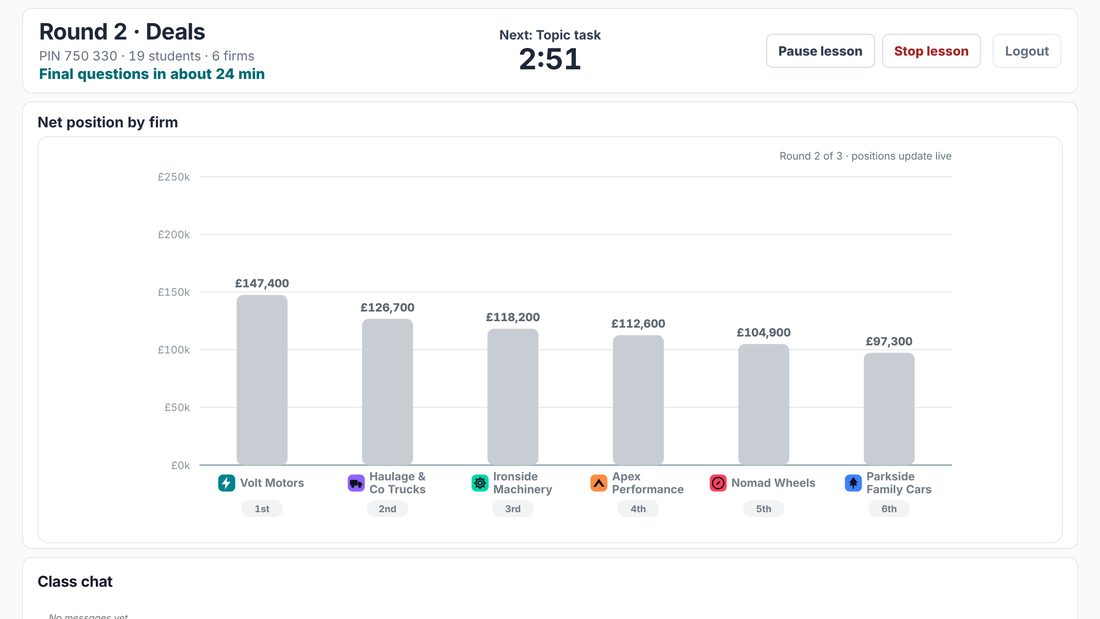
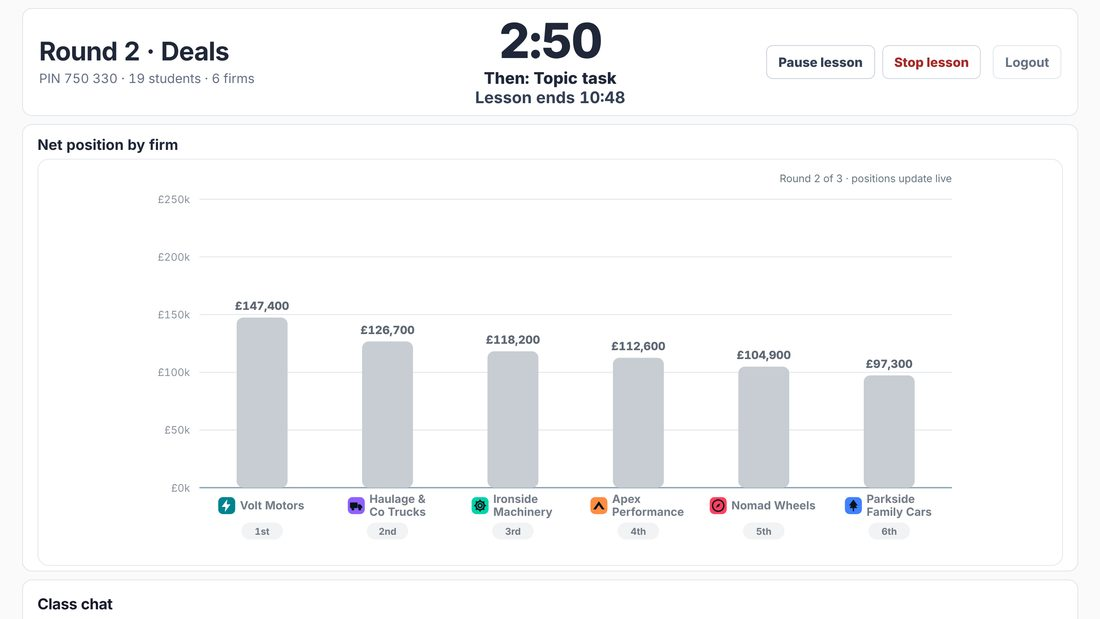
UK pages: teacher-screen pictures re-taken from game main 4814efdd (one clock header)
The teacher's header in the step-by-step lesson is now one big countdown with
"Then: <next step>" and "Lesson ends HH:MM" under it; the old "Next: ... 2:51"
and "Final questions in about N min" lines are gone. Re-taken through the
real-app harness, same scenes and sizes as 12.11.:
- howto/4-teacher: Round 2 Deals, the new header (1100x619, JPEG q82)
- howto/5-winner: the podium under the "Lesson ended" header as it is now
  (1100x619, JPEG q82)
- uk/uk-g-topic-dashboard: Live tab, Task 4, the new header; shot at 1536x864
  so the Task 3 line under the taller header is whole (1600x900, JPEG q84)
Image tags bumped to v=20261113. og-simulation (pupil's receipt) re-taken and
unchanged apart from the running clock, so it stays. Film posters stay matched
to their films.

Claude-Session: https://claude.ai/code/session_01Np2n7mwxyzcaQWByNZ1ReD

diff --git a/index.html b/index.html
@@ -684,7 +684,7 @@
       <p style="color:#40506e;font-size:16.5px">A revision lesson at the end of each topic, or a business activity any time (No topic).</p>
       <p style="color:#40506e;font-size:16.5px;margin-top:10px">The lesson runs step by step. The whole class works on the same step at the same time, and your screen shows how many firms are done.</p>
     </div>
-    <div class="hs-wrap"><div class="hs"><div class="hs-list" role="tablist" aria-label="How a lesson runs"><button class="hs-item" type="button" role="tab" aria-selected="true" data-i="0"><span class="hs-n">01</span><span><span class="hs-t">Students join with a PIN</span><span class="hs-d">You pick the class and the lesson length. The whole class joins with one PIN.</span></span></button><button class="hs-item" type="button" role="tab" aria-selected="false" data-i="1"><span class="hs-n">02</span><span><span class="hs-t">Each firm votes where to open</span><span class="hs-d">Everyone votes. Most votes wins.</span></span></button><button class="hs-item" type="button" role="tab" aria-selected="false" data-i="2"><span class="hs-n">03</span><span><span class="hs-t">Everyone deals</span><span class="hs-d">Students buy, price and negotiate face to face.</span></span></button><button class="hs-item" type="button" role="tab" aria-selected="false" data-i="3"><span class="hs-n">04</span><span><span class="hs-t">Every round, the same order</span><span class="hs-d">Firm decisions, deals with classmates, topic tasks, then a B2B deal between firms.</span></span></button><button class="hs-item" type="button" role="tab" aria-selected="false" data-i="4"><span class="hs-n">05</span><span><span class="hs-t">You see every firm live</span><span class="hs-d">Pause and Stop are one click away.</span></span></button><button class="hs-item" type="button" role="tab" aria-selected="false" data-i="5"><span class="hs-n">06</span><span><span class="hs-t">Questions, then the winner</span><span class="hs-d">Six final questions, then the podium.</span></span></button><button class="hs-item" type="button" role="tab" aria-selected="false" data-i="6"><span class="hs-n">07</span><span><span class="hs-t">Every student gets a report</span><span class="hs-d">You download the class pack.</span></span></button></div><div class="hs-view"><div class="hs-frame"><i class="hs-corner tl"></i><i class="hs-corner tr"></i><i class="hs-corner bl"></i><i class="hs-corner br"></i><div class="hs-stack"><img class="hs-img on" src="/assets/tbs-web/howto/1-join.jpg?v=20261112c" alt="Students join with a PIN" width="1100" height="619"><img class="hs-img" src="/assets/tbs-web/howto/2-location.jpg?v=20261110" alt="Each firm votes where to open" loading="lazy" width="1100" height="619"><img class="hs-img" src="/assets/tbs-web/howto/3-deal.jpg?v=20261112" alt="Everyone deals" loading="lazy" width="1100" height="619"><img class="hs-img" src="/assets/tbs-web/howto/3b-margin.jpg?v=20261112d" alt="Every round, the same order" loading="lazy" width="1100" height="619"><img class="hs-img" src="/assets/tbs-web/howto/4-teacher.jpg?v=20261112" alt="You see every firm live" loading="lazy" width="1100" height="619"><img class="hs-img" src="/assets/tbs-web/howto/5-winner.jpg?v=20261112" alt="Questions, then the winner" loading="lazy" width="1100" height="619"><img class="hs-img" src="/assets/tbs-web/howto/6-report.jpg?v=20261112d" alt="Every student gets a report" loading="lazy" width="1100" height="619"></div><div class="hs-bar"><i></i></div></div><p class="hs-cap" aria-live="polite"></p></div></div></div>
+    <div class="hs-wrap"><div class="hs"><div class="hs-list" role="tablist" aria-label="How a lesson runs"><button class="hs-item" type="button" role="tab" aria-selected="true" data-i="0"><span class="hs-n">01</span><span><span class="hs-t">Students join with a PIN</span><span class="hs-d">You pick the class and the lesson length. The whole class joins with one PIN.</span></span></button><button class="hs-item" type="button" role="tab" aria-selected="false" data-i="1"><span class="hs-n">02</span><span><span class="hs-t">Each firm votes where to open</span><span class="hs-d">Everyone votes. Most votes wins.</span></span></button><button class="hs-item" type="button" role="tab" aria-selected="false" data-i="2"><span class="hs-n">03</span><span><span class="hs-t">Everyone deals</span><span class="hs-d">Students buy, price and negotiate face to face.</span></span></button><button class="hs-item" type="button" role="tab" aria-selected="false" data-i="3"><span class="hs-n">04</span><span><span class="hs-t">Every round, the same order</span><span class="hs-d">Firm decisions, deals with classmates, topic tasks, then a B2B deal between firms.</span></span></button><button class="hs-item" type="button" role="tab" aria-selected="false" data-i="4"><span class="hs-n">05</span><span><span class="hs-t">You see every firm live</span><span class="hs-d">Pause and Stop are one click away.</span></span></button><button class="hs-item" type="button" role="tab" aria-selected="false" data-i="5"><span class="hs-n">06</span><span><span class="hs-t">Questions, then the winner</span><span class="hs-d">Six final questions, then the podium.</span></span></button><button class="hs-item" type="button" role="tab" aria-selected="false" data-i="6"><span class="hs-n">07</span><span><span class="hs-t">Every student gets a report</span><span class="hs-d">You download the class pack.</span></span></button></div><div class="hs-view"><div class="hs-frame"><i class="hs-corner tl"></i><i class="hs-corner tr"></i><i class="hs-corner bl"></i><i class="hs-corner br"></i><div class="hs-stack"><img class="hs-img on" src="/assets/tbs-web/howto/1-join.jpg?v=20261112c" alt="Students join with a PIN" width="1100" height="619"><img class="hs-img" src="/assets/tbs-web/howto/2-location.jpg?v=20261110" alt="Each firm votes where to open" loading="lazy" width="1100" height="619"><img class="hs-img" src="/assets/tbs-web/howto/3-deal.jpg?v=20261112" alt="Everyone deals" loading="lazy" width="1100" height="619"><img class="hs-img" src="/assets/tbs-web/howto/3b-margin.jpg?v=20261112d" alt="Every round, the same order" loading="lazy" width="1100" height="619"><img class="hs-img" src="/assets/tbs-web/howto/4-teacher.jpg?v=20261113" alt="You see every firm live" loading="lazy" width="1100" height="619"><img class="hs-img" src="/assets/tbs-web/howto/5-winner.jpg?v=20261113" alt="Questions, then the winner" loading="lazy" width="1100" height="619"><img class="hs-img" src="/assets/tbs-web/howto/6-report.jpg?v=20261112d" alt="Every student gets a report" loading="lazy" width="1100" height="619"></div><div class="hs-bar"><i></i></div></div><p class="hs-cap" aria-live="polite"></p></div></div></div>
     <div style="display:flex;gap:14px;justify-content:center;flex-wrap:wrap;margin-top:8px">
       <a href="/trial/" style="display:inline-block;background:#0a6b73;color:#fff;font-weight:700;border-radius:12px;padding:19px 38px;text-decoration:none;font-size:20px;box-shadow:0 8px 24px rgba(10,107,115,.35)">Request a trial</a>
       <a href="https://play.thebusiness.school/demo/group-classroom/" style="display:inline-block;background:#fff;color:#0e2038;border:1px solid #c9d3df;font-weight:700;border-radius:12px;padding:19px 30px;text-decoration:none;font-size:18px">Try the Teacher Demo</a>

diff --git a/topic-tasks/index.html b/topic-tasks/index.html
@@ -240,7 +240,7 @@ footer a{color:#40506e;text-decoration:none;margin-right:18px}
       <div class="card"><h3>Which firms were wrong</h3><p>Named on your screen, ready to talk through.</p></div>
       <div class="card"><h3>Every firm's net position</h3><p>On the same page, live.</p></div>
     </div>
-    <figure class="shot"><img src="/assets/tbs-web/uk/uk-g-topic-dashboard.jpg?v=20261112" width="1600" height="900" loading="lazy" decoding="async" alt="The teacher's Live screen: Task 4, every firm's answer with a tick or a cross, 4 right and 2 wrong, and the right answer for the wrong firms."><figcaption>Your dashboard: each task, and which firms got it right.</figcaption></figure>
+    <figure class="shot"><img src="/assets/tbs-web/uk/uk-g-topic-dashboard.jpg?v=20261113" width="1600" height="900" loading="lazy" decoding="async" alt="The teacher's Live screen: Task 4, every firm's answer with a tick or a cross, 4 right and 2 wrong, and the right answer for the wrong firms."><figcaption>Your dashboard: each task, and which firms got it right.</figcaption></figure>
   </div>
 </section>
 
